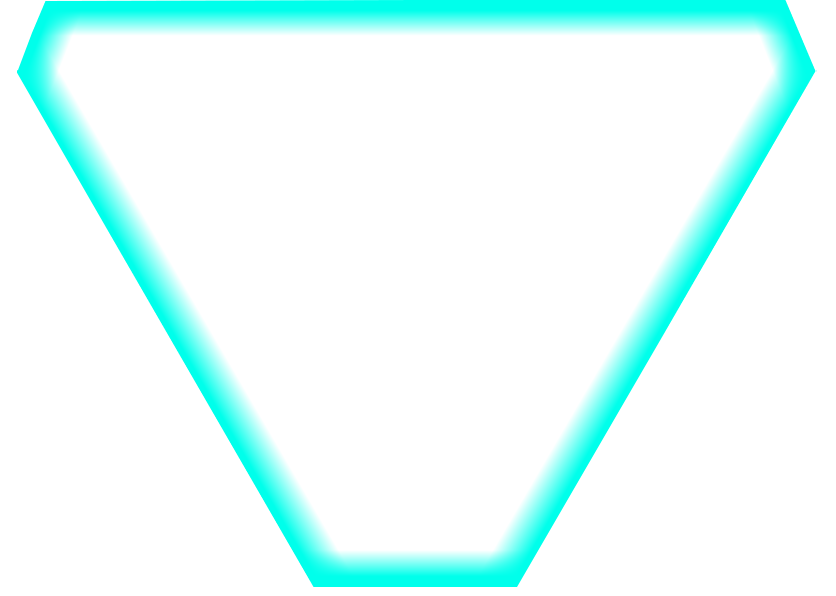
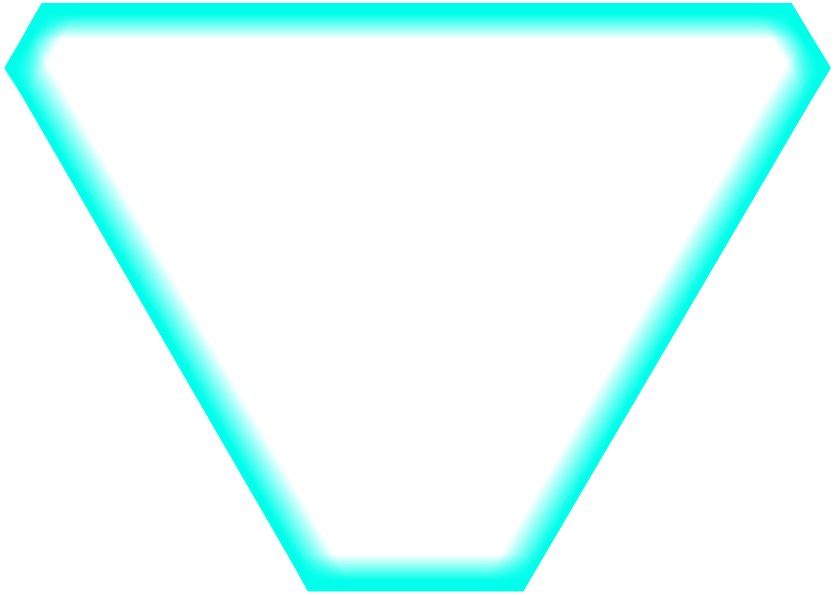
light image changed

Changed region(s): [[0.0, 0.0, 0.9964, 0.9983]]

diff --git a/style.css b/style.css
@@ -12,8 +12,8 @@
 }
 #light3 {
   position: absolute;
-  left: 600px;
-  top: 230px;
+  left: 602px;
+  top: 228px;
   pointer-events: none;
   transform: scale(0);
   opacity: 0;
@@ -21,13 +21,13 @@
   transition: transform 0.5s, opacity 0.5s;
 }
 .three {
-  transform: scale(1.07) !important;
+  transform: scale(1.025) !important;
   opacity: 1 !important;
   transition: transform 0.5s, opacity 0.5s;
 }
 #light2 {
   position: absolute;
-  left: 483px;
+  left: 484px;
   top: 145px;
   pointer-events: none;
   transform: scale(0.7);
@@ -36,14 +36,14 @@
   transition: transform 0.5s, opacity 0.5s;
 }
 .two {
-  transform: scale(1.06) !important;
+  transform: scale(1.029) !important;
   opacity: 1 !important;
   transition: transform 0.5s, opacity 0.5s;
 }
 #light1 {
   position: absolute;
   left: 356px;
-  top: 70px;
+  top: 65px;
   pointer-events: none;
   transform: scale(0.75);
   opacity: 0;
@@ -51,7 +51,7 @@
   transition: transform 0.5s, opacity 0.5s;
 }
 .one {
-  transform: scale(1.065) !important;
+  transform: scale(1.029) !important;
   opacity: 1 !important;
   transition: transform 0.5s, opacity 0.5s;
 }
@@ -59,7 +59,7 @@
 /*--------------------Outer Image CSS-------------------- */
 #text1 {
   position: absolute;
-  left: 705px;
+  left: 700px;
   top: 75px;
   font-size: 24px;
   font-weight: 400;
@@ -91,6 +91,7 @@
   font-weight: 400;
   letter-spacing: 3px;
   font-family: "Good Times", arial;
+  /* margin-bottom: -10px; */
 }
 #Onebutton1,
 #Onebutton2 {
@@ -130,7 +131,7 @@
 /*--------------------Middle Image CSS-------------------- */
 #text2 {
   position: absolute;
-  left: 695px;
+  left: 690px;
   top: 155px;
   font-size: 24px;
   font-weight: 400;
@@ -200,7 +201,7 @@
 /*--------------------Inner Image CSS-------------------- */
 #text3 {
   position: absolute;
-  left: 700px;
+  left: 705px;
   top: 240px;
   font-size: 24px;
   font-weight: 400;
@@ -263,10 +264,10 @@
 }
 #logo {
   position: absolute;
-  left: 700px;
-  top: 280px;
-  width: 150px;
-  height: 150px;
+  left: 717px;
+  top: 295px;
+  width: 110px;
+  height: 15´10px;
   pointer-events: none;
 }
 
